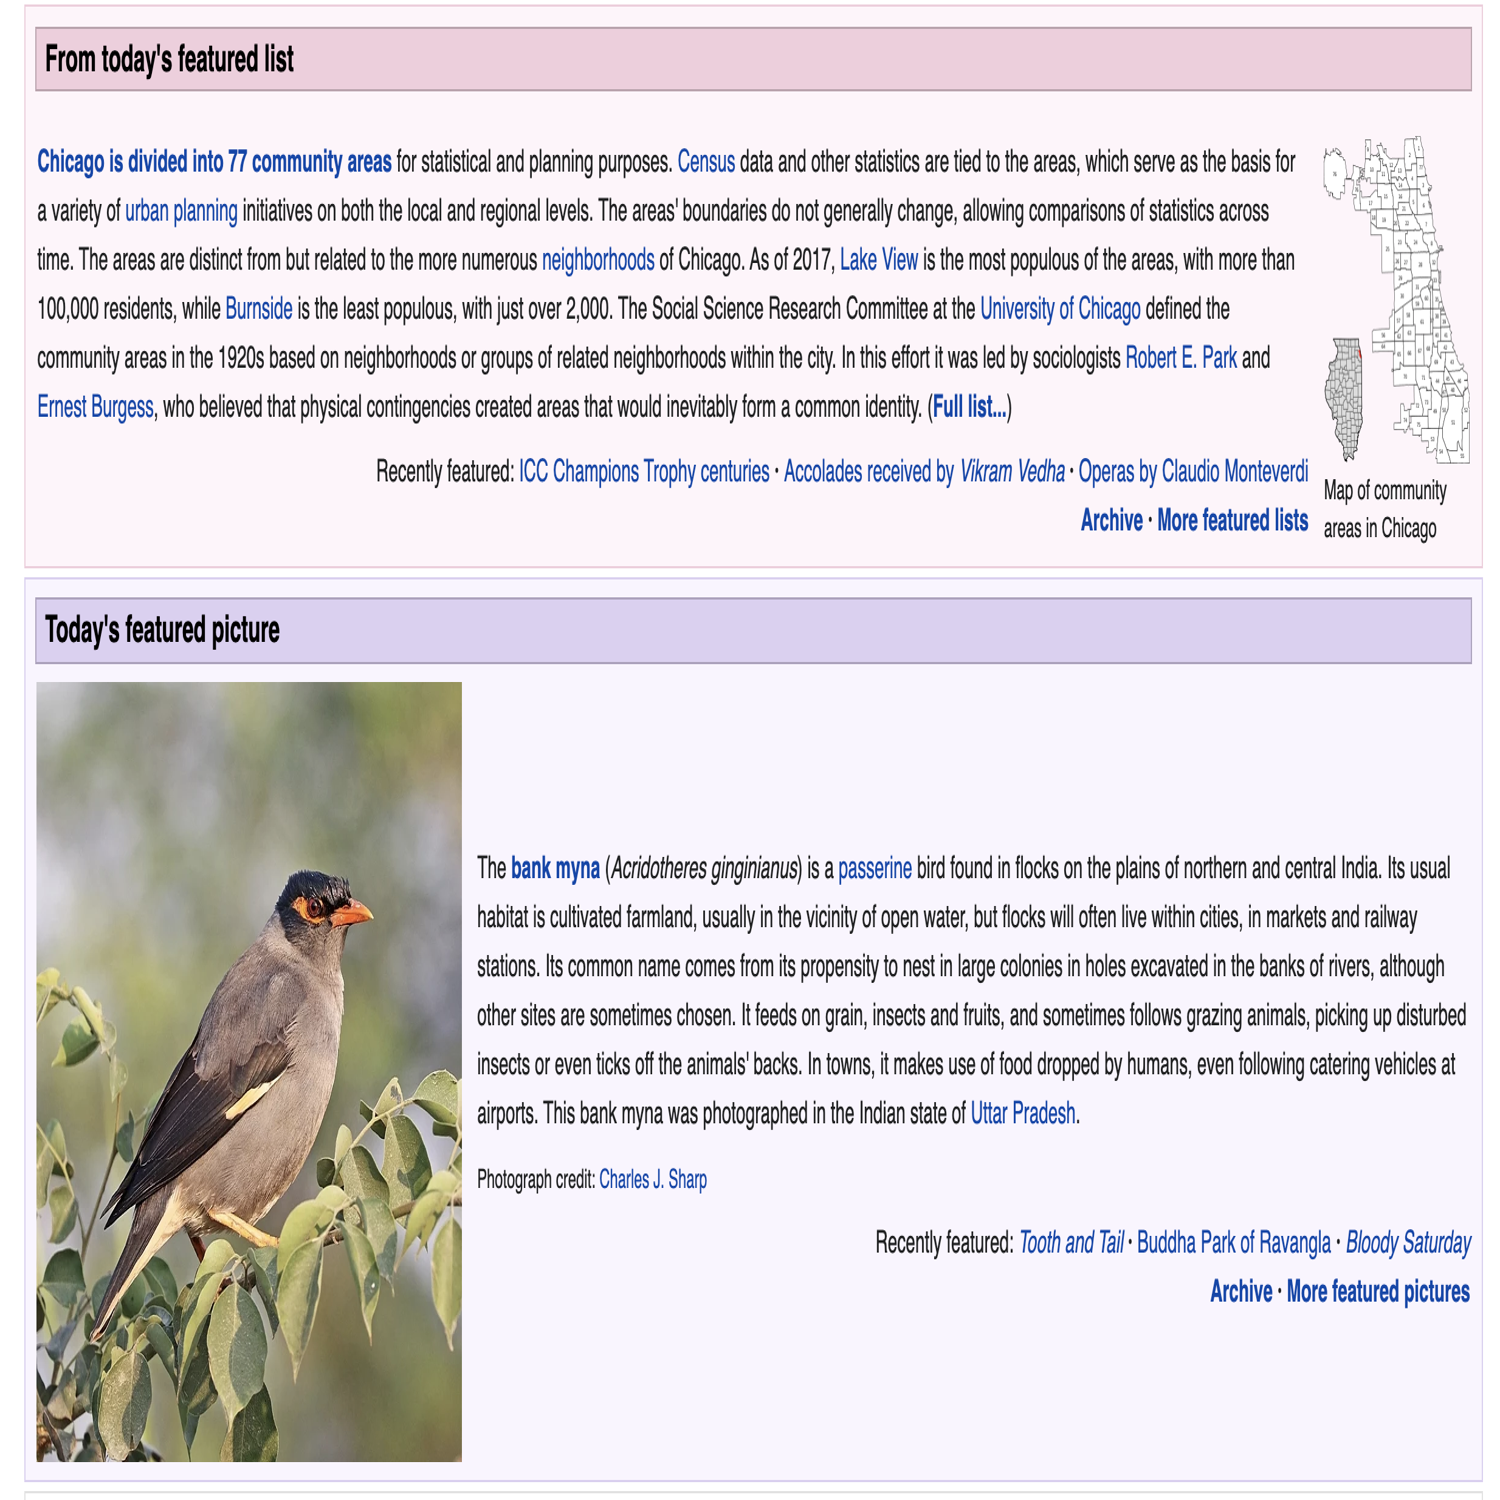
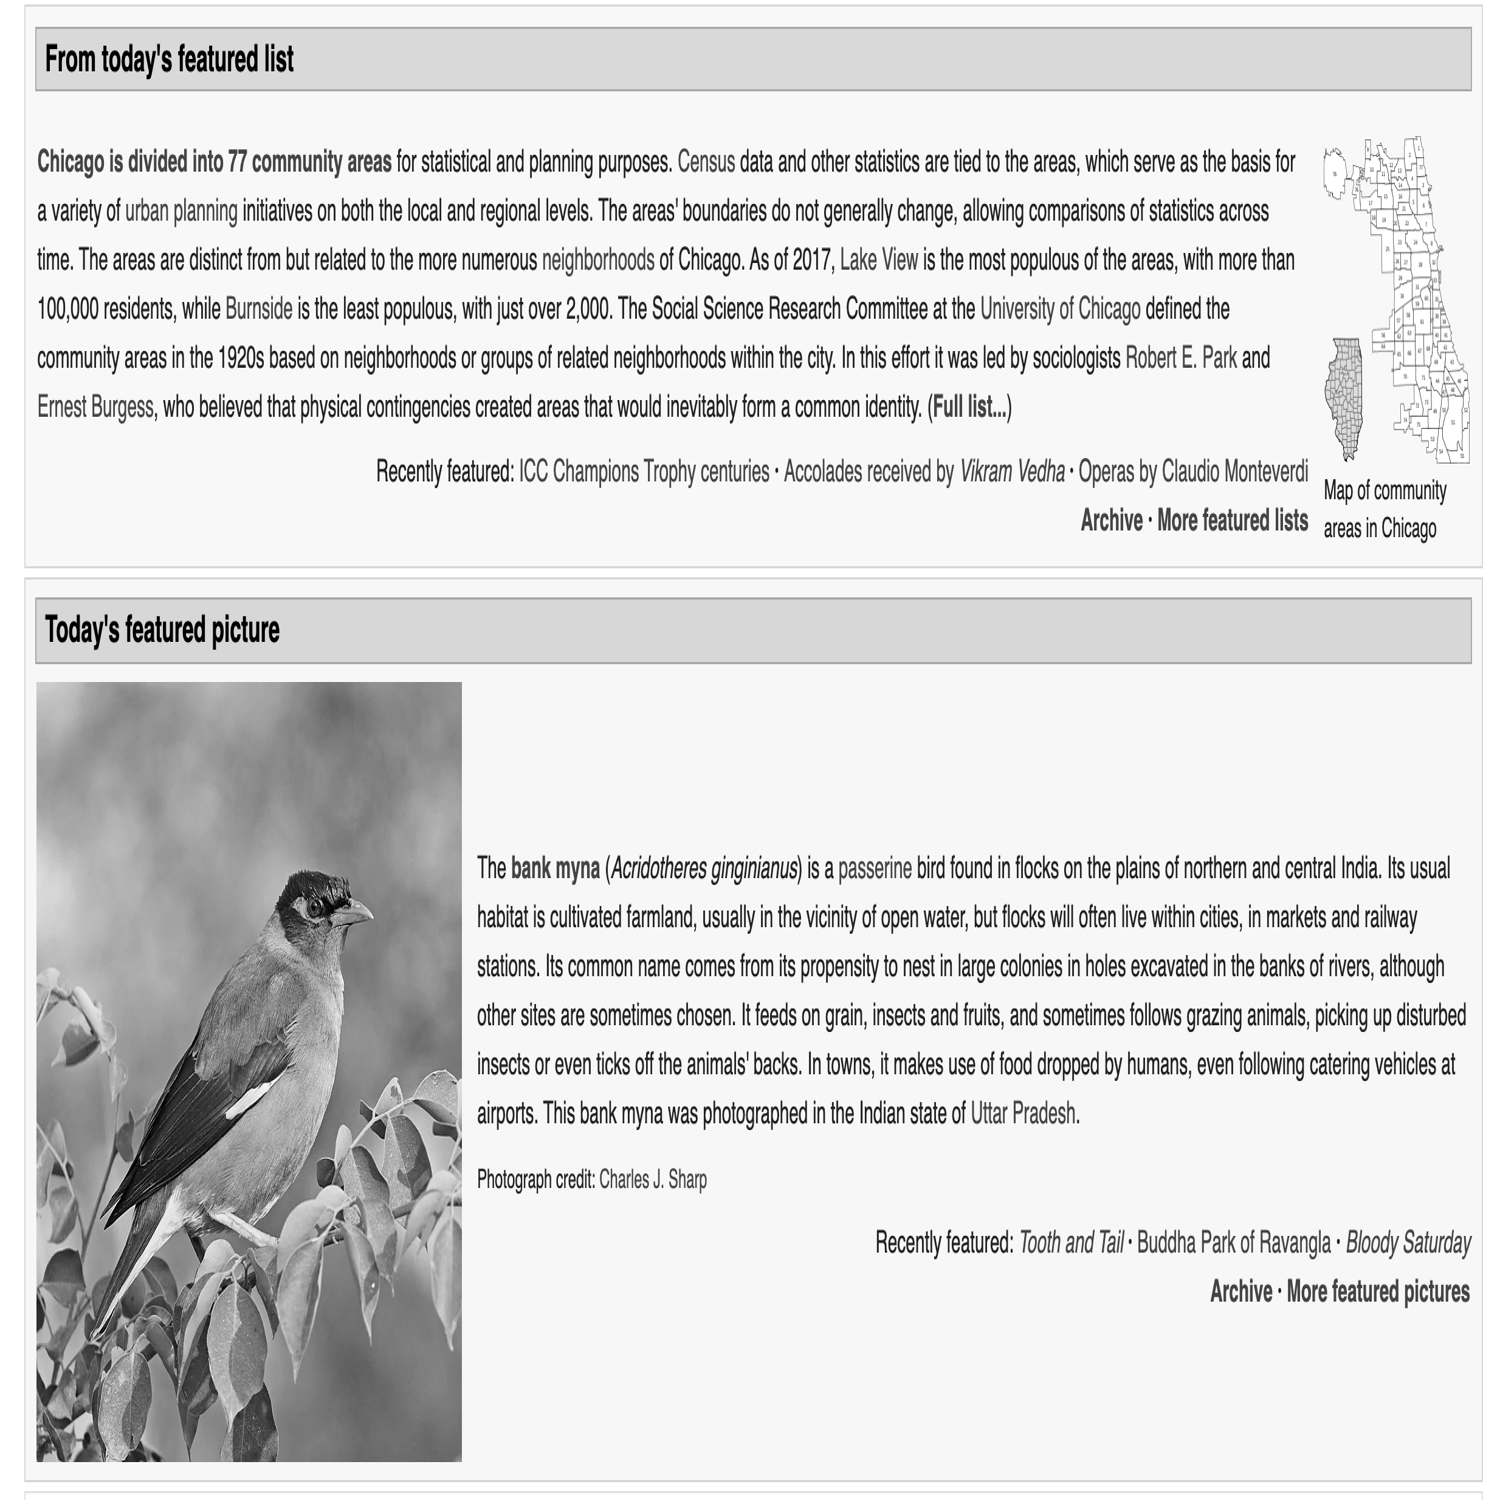
Commit 9
Function to calculate seperation_coefficient

diff --git a/Marker.py b/Marker.py
@@ -1,13 +1,16 @@
 import os
-import tensorflow
+#import tensorflow
+#from tensorflow import keras
 import numpy
 import matplotlib.image as img
 import PIL
-from PIL import Image,ImageDraw2
-from tensorflow import keras
+from PIL import Image,ImageDraw2,ImageOps
+from image_slicer import slice
+
 
 input_training_directory = "C:\\Users\\Ayush Sharma\\Desktop\\Programs\\HTML-Extractor\\Data"
 resized_image_training_directory = input_training_directory + "\\" + "Resized"
+
 try:
     os.mkdir(resized_image_training_directory)
 except:
@@ -16,6 +19,7 @@ except:
 for directory in os.listdir(input_training_directory):
     try:
         n = Image.open(input_training_directory+ "\\" + directory)
+        n = ImageOps.grayscale(n)
         n = n.resize((1500,1500))
         n.save(resized_image_training_directory + "\\" + directory)
     except PermissionError:
@@ -26,10 +30,19 @@ for directory in os.listdir(resized_image_training_directory):
     n = img.imread(resized_image_training_directory + "\\" + directory)
     images.append(n)
 
-training_image_array = numpy.array(images )
+training_image_array = numpy.array(images)
 print(training_image_array.shape)
 
+def calculate_seperation_coefficient(directory):
+    seperation_coefficient = 1
+    image = PIL.Image.open(directory)
+    width,height = image.size
+    seperation_coefficient = round(width/25)
+    return seperation_coefficient
+
+slice(input_training_directory + "\\" + "Html1.png",calculate_seperation_coefficient(input_training_directory + "\\" + "Html1.png"))
+
+slice(resized_image_training_directory + "\\Html1.png" , 4)
 
 
-
-
+#output - array[list[tuples(x,y)]]
